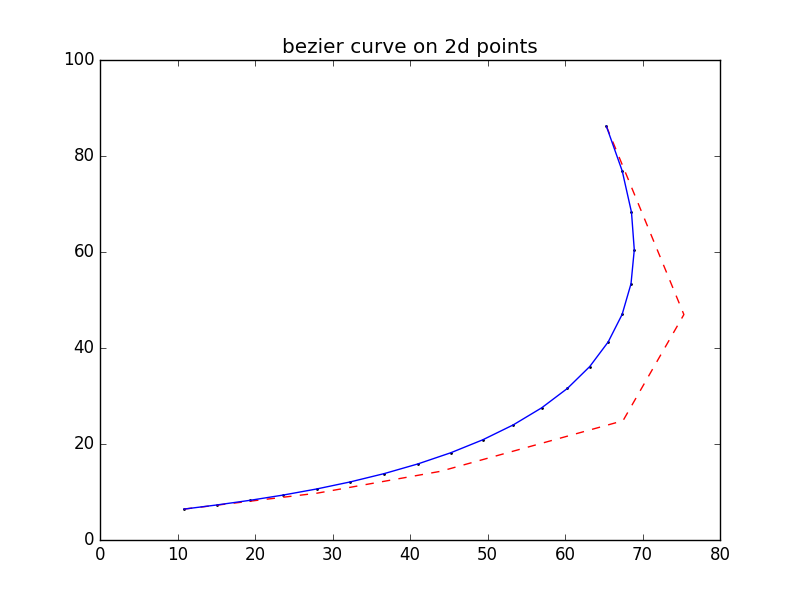
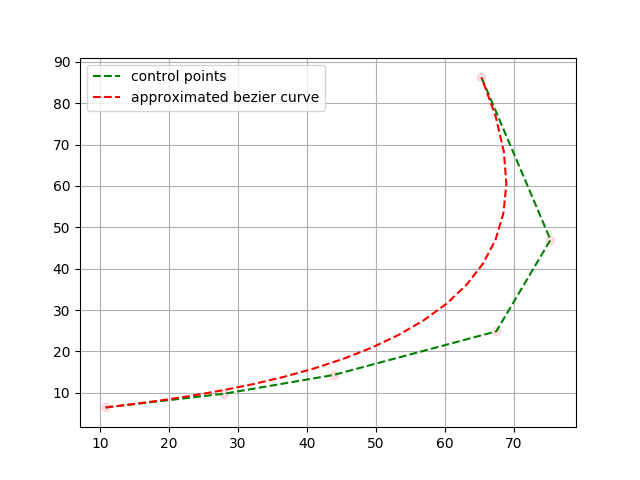
add visualization

diff --git a/examples/Ex3DPoints.cpp b/examples/Ex3DPoints.cpp
@@ -11,9 +11,18 @@
  *
  */
 
-#include <bezier/Bezier.hpp>
 #include <iostream>
 #include <memory>
+
+#include <bezier/Bezier.hpp>
+
+#ifndef WITH_VISUALIZATION
+#define ENABLE_VISUALIZATION 1
+#endif  // WITH_VISUALIZATION
+
+#if ENABLE_VISUALIZATION
+#include <matplotlib_cpp/MatplotlibCpp.hpp>
+#endif  // ENABLE_VISUALIZATION
 
 int main(int argc, char* argv[])
 {
@@ -29,19 +38,7 @@ int main(int argc, char* argv[])
     Bezier::PointType p9(9, 4, 9);
     Bezier::PointType p10(10, 8, 10);
 
-    Bezier::VecPointType pV;
-    pV.reserve(10);
-
-    pV.emplace_back(p1);
-    pV.emplace_back(p2);
-    pV.emplace_back(p3);
-    pV.emplace_back(p4);
-    pV.emplace_back(p5);
-    pV.emplace_back(p6);
-    pV.emplace_back(p7);
-    pV.emplace_back(p8);
-    pV.emplace_back(p9);
-    pV.emplace_back(p10);
+    Bezier::VecPointType pV{p1, p2, p3, p4, p5, p6, p7, p8, p9, p10};
 
     Bezier::Ptr bezier = std::make_shared<Bezier>(9, pV);
     auto coeffV = bezier->binomialCoeffs();
@@ -67,6 +64,46 @@ int main(int argc, char* argv[])
     }
 
     std::cout << *bezier << "\n";
+
+#if ENABLE_VISUALIZATION
+    // import modules of matplotlib library
+    pe::vis::Matplotlib mpllib;
+
+    // check if the modules are imported successully or not
+    if (!mpllib.imported()) {
+        std::cout << "Failed to import matplotlib library\n";
+        exit(EXIT_FAILURE);
+    }
+
+    const auto xyzS = bezier->extractDataEachAxis(pV);
+
+    mpllib.initializeAxes3D();
+
+    mpllib.plotAxes3D(
+        xyzS[0], xyzS[1], xyzS[2],
+        {
+            {"label", pe::vis::Matplotlib::createAnyBaseMapData<std::string>("control points")},
+            {"color", pe::vis::Matplotlib::createAnyBaseMapData<std::string>("g")},
+            {"linestyle", pe::vis::Matplotlib::createAnyBaseMapData<std::string>("--")},
+        });
+    mpllib.scatterAxes3D(xyzS[0], xyzS[1], xyzS[2]);
+
+    const auto xyzTrajectoryS = bezier->extractDataEachAxis(trajectory);
+
+    mpllib.plotAxes3D(
+        xyzTrajectoryS[0], xyzTrajectoryS[1], xyzTrajectoryS[2],
+        {
+            {"label", pe::vis::Matplotlib::createAnyBaseMapData<std::string>("approximated bezier curve")},
+            {"color", pe::vis::Matplotlib::createAnyBaseMapData<std::string>("r")},
+            {"linestyle", pe::vis::Matplotlib::createAnyBaseMapData<std::string>("--")},
+        });
+
+    mpllib.legend();
+
+    mpllib.savefig("3dpoints.png");
+
+    mpllib.show();
+#endif  // ENABLE_VISUALIZATION
 
     return 0;
 }

diff --git a/examples/Ex2DPoints.cpp b/examples/Ex2DPoints.cpp
@@ -11,9 +11,19 @@
  *
  */
 
-#include <bezier/Bezier.hpp>
 #include <iostream>
 #include <memory>
+#include <string>
+
+#include <bezier/Bezier.hpp>
+
+#ifndef WITH_VISUALIZATION
+#define ENABLE_VISUALIZATION 1
+#endif  // WITH_VISUALIZATION
+
+#if ENABLE_VISUALIZATION
+#include <matplotlib_cpp/MatplotlibCpp.hpp>
+#endif  // ENABLE_VISUALIZATION
 
 int main(int argc, char* argv[])
 {
@@ -25,15 +35,7 @@ int main(int argc, char* argv[])
     Bezier::PointType p5(75.34, 46.97);
     Bezier::PointType p6(65.33, 86.25);
 
-    Bezier::VecPointType pV;
-    pV.reserve(6);
-
-    pV.emplace_back(p1);
-    pV.emplace_back(p2);
-    pV.emplace_back(p3);
-    pV.emplace_back(p4);
-    pV.emplace_back(p5);
-    pV.emplace_back(p6);
+    Bezier::VecPointType pV{p1, p2, p3, p4, p5, p6};
 
     Bezier::Ptr bezier = std::make_shared<Bezier>(5, pV);
     auto coeffV = bezier->binomialCoeffs();
@@ -60,5 +62,43 @@ int main(int argc, char* argv[])
 
     std::cout << *bezier << "\n";
 
+#if ENABLE_VISUALIZATION
+    // import modules of matplotlib library
+    pe::vis::Matplotlib mpllib;
+
+    // check if the modules are imported successully or not
+    if (!mpllib.imported()) {
+        std::cout << "Failed to import matplotlib library\n";
+        exit(EXIT_FAILURE);
+    }
+
+    const auto xyS = bezier->extractDataEachAxis(pV);
+    const auto xyTrajectoryS = bezier->extractDataEachAxis(trajectory);
+
+    mpllib.plot(xyS[0], xyS[1],
+                {
+                    {"label", pe::vis::Matplotlib::createAnyBaseMapData<std::string>("control points")},
+                    {"color", pe::vis::Matplotlib::createAnyBaseMapData<std::string>("g")},
+                    {"linestyle", pe::vis::Matplotlib::createAnyBaseMapData<std::string>("--")},
+                });
+
+    mpllib.scatter(xyS[0], xyS[1]);
+
+    mpllib.plot(xyTrajectoryS[0], xyTrajectoryS[1],
+                {
+                    {"label", pe::vis::Matplotlib::createAnyBaseMapData<std::string>("approximated bezier curve")},
+                    {"color", pe::vis::Matplotlib::createAnyBaseMapData<std::string>("r")},
+                    {"linestyle", pe::vis::Matplotlib::createAnyBaseMapData<std::string>("--")},
+                });
+
+    mpllib.legend();
+
+    mpllib.grid();
+
+    mpllib.savefig("2dpoints.png");
+
+    mpllib.show();
+
+#endif  // ENABLE_VISUALIZATION
     return 0;
 }

diff --git a/README.md b/README.md
@@ -18,8 +18,11 @@ cmake ../ && cmake --build .
 
 ### Build Options ###
  - WITH_DEBUG=ON/OFF(default: OFF) : whether to enable debug
+ - WITH_GTEST=ON/OFF(default: OFF) : whether to enable gtest
  - BUILD_EXAMPLES=ON/OFF(default: OFF) : whether to enable build examples
  - BUILD_DOC=ON/OFF(default: ON) : whether to build doc (by doxygen) or not
+ - WITH_VISUALIZATION=ON/OFF(default: OFF) : whether to build examples with visualization (currently used [matplotlib_cpp](https://github.com/xmba15/Another_MatplotlibCpp.git) for visualization)
+
 ## General Usage ##
 See [Examples](examples)
 
